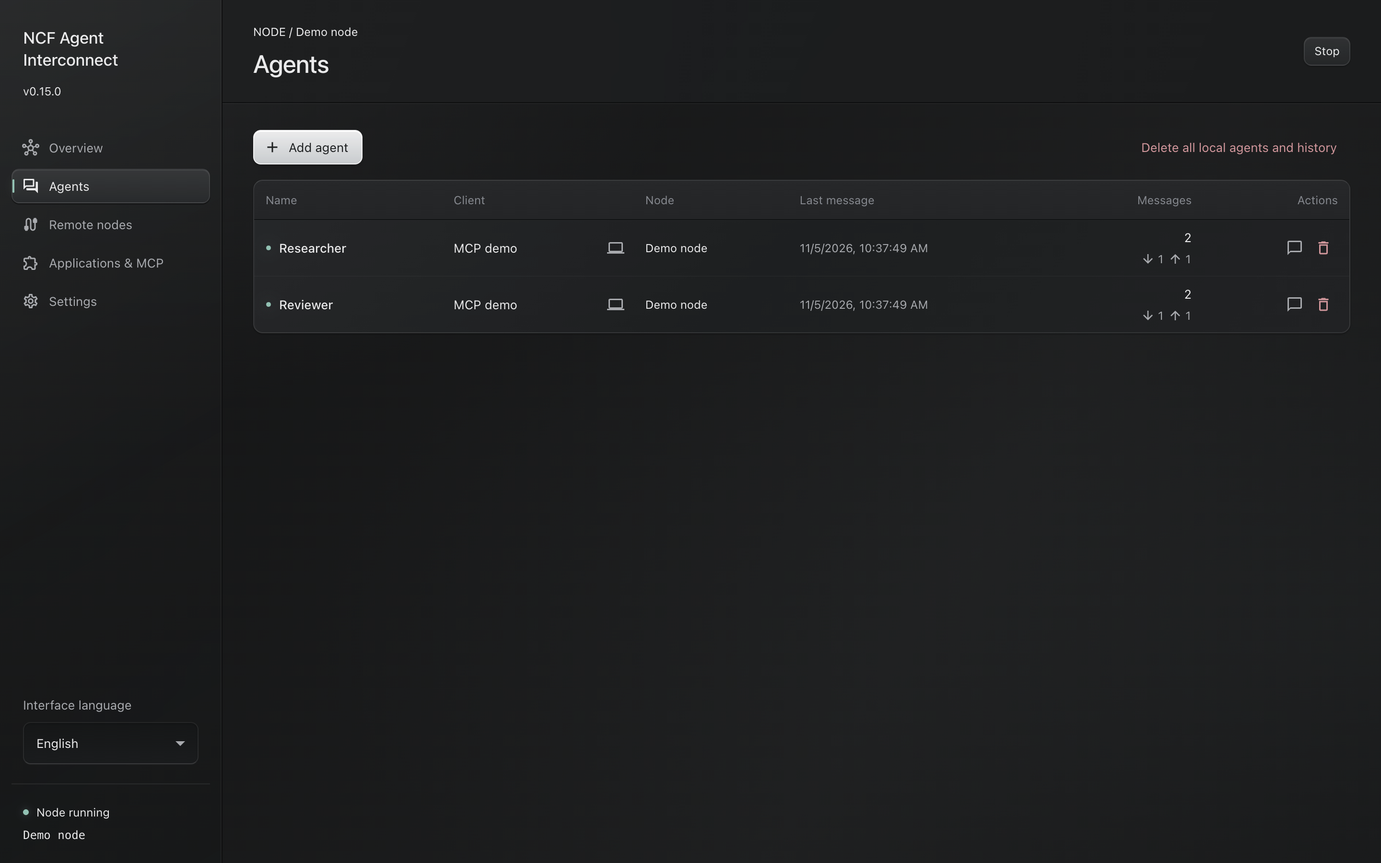
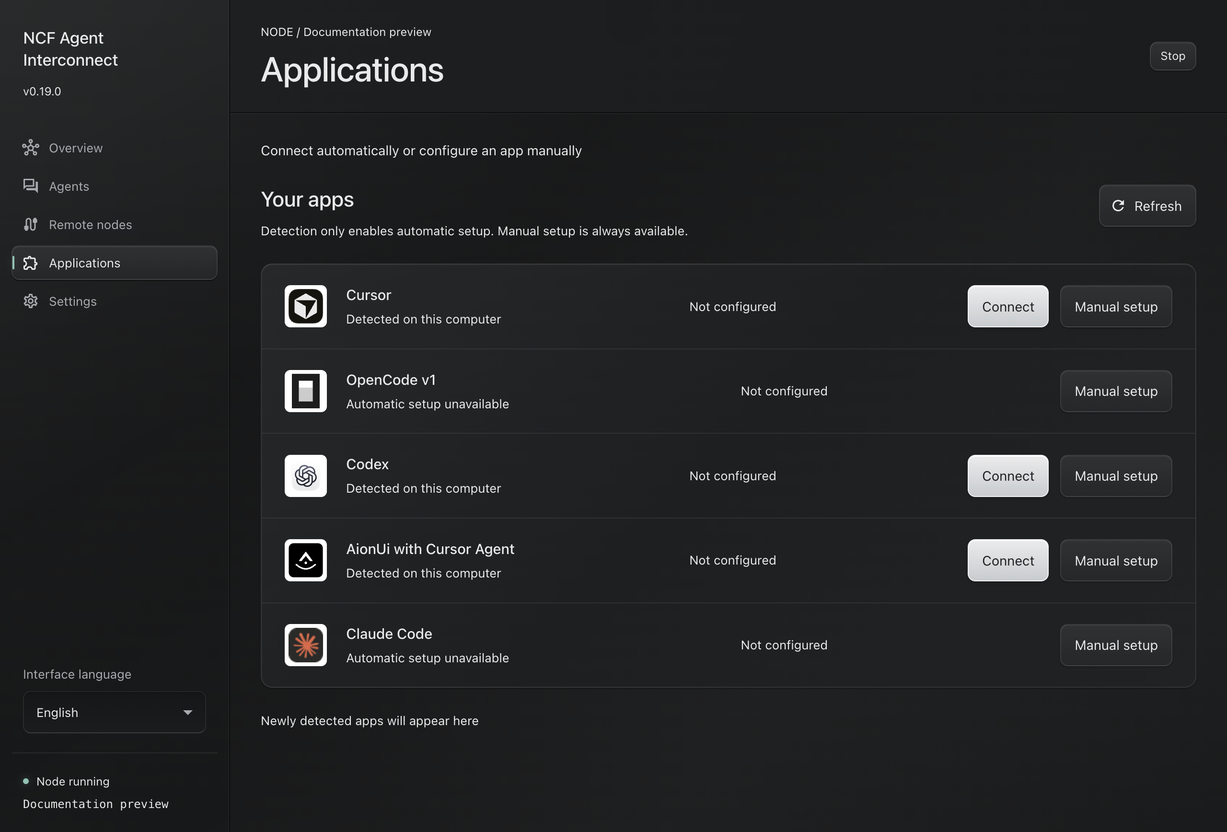
[skip ci] docs: describe application setup and remote search

diff --git a/docs/setup.md b/docs/setup.md
@@ -12,13 +12,15 @@ Start NCF Agent Interconnect. Keep it running while agents exchange messages. Cl
 
 ## 2. Choose an application
 
-NCF Agent Interconnect checks known installation locations when it starts. The overview shows the five supported applications with local icons and offers setup for newly detected applications. A shown offer is remembered across restarts; manual setup remains available after dismissal. Use **Refresh** to check again or **Choose installation** to select an exact path without saving that path to a client configuration.
+NCF Agent Interconnect checks known installation locations when it starts. A **Connect your apps** screen can offer cards for newly detected applications; you can choose **Not now** and return to **Applications** from the sidebar. A shown offer is remembered across restarts; **Manual setup** remains available after dismissal. The overview still shows detected installations. Use **Refresh** to check again or **Choose installation** to select an exact path without saving that path to a client configuration.
 
 Installation status is separate from setup and connection status. **Not found in known locations** does not mean an application is absent. Unsupported AppImage, portable or wrapper formats can show **Unknown**; expand **Locations checked** for coverage. OpenCode discovery does not verify its API major, and the current setup supports v1. Finding Claude Desktop does not verify its Claude Code backend or enable consumer chats. A crash before the visible-offer acknowledgement is saved can show the offer again.
 
-Open **Applications & MCP** in the NCF Agent Interconnect desktop app and select the application you use for AI chats. Open its Configure dialog. Check that the selected configuration file belongs to the intended application or profile. You can choose a different file in the dialog. Review the described change, then click **Apply**. Only this action changes the selected client configuration. Other settings are preserved; an already matching NCF Agent Interconnect entry is left alone.
+For a detected application, select **Connect** on its startup card or row under **Applications**. The app checks the default configuration target and applies the NCF integration in that one action when no existing NCF entry must be replaced. If replacement is needed, inspect the selected file and change preview, then explicitly confirm **Apply**; **Cancel** leaves it unchanged. A changed target or uncertain result requires a fresh check or confirmation, not a blind second write. **Next step** tells you how to reconnect or restart the client and connect its chat. You can return to **Applications** from the sidebar.
 
-After Apply, restart Cursor once to load its included plugin, or restart OpenCode after adding its bundled plugin. Reconnect MCP in Codex Desktop. Restart Claude Code or reload its plugins. For AionUi with Cursor Agent, follow its [separate owner authorization and Cursor Agent bridge setup](aionui-setup.md). Saved settings alone do not mean that an agent chat is connected or that its plugin is running.
+For another installation or profile, use **Manual setup** and the client-specific Configure dialog. Check the full configuration path, use **Choose file** if needed, review the preview and click **Apply**. Cancel does not write. Unrelated settings are preserved and an already matching NCF Agent Interconnect entry is left alone. Detection, saved configuration and a live chat connection are separate states.
+
+After Connect or Apply, restart Cursor once to load its included plugin, or restart OpenCode after adding its bundled plugin. Reconnect MCP in Codex Desktop. Restart Claude Code or reload its plugins. For AionUi with Cursor Agent, follow its [separate owner authorization and Cursor Agent bridge setup](aionui-setup.md). Saved settings alone do not mean that an agent chat is connected or that its plugin is running.
 
 | Application                         | What to expect after setup                                                                                                                                                                                                                |
 | ----------------------------------- | ----------------------------------------------------------------------------------------------------------------------------------------------------------------------------------------------------------------------------------------- |
@@ -39,16 +41,18 @@ If the name is already connected to another chat, the new chat will ask whether 
 
 ## 4. Connect another computer, if needed
 
-Start the app on both computers. On the receiving computer, choose the local network address under Settings, then open **Remote nodes** and create a temporary access code. On the other computer, add that computer using its displayed address and code. The code has eight letters or digits, expires after ten minutes and can authorize one peer. Share it privately. The apps establish and remember the trusted connection; you do not need to copy certificates.
+Start the app on both computers. The listener initially uses `127.0.0.1`, so on the receiving computer choose a reachable local network address under **Settings**. Open **Remote nodes** there and create a temporary code in **Connect to this computer** while its node is running; its address and code appear together. The code has eight letters or digits, expires after ten minutes and can authorize one peer. Share it privately.
 
-The computers must already be able to reach one another at the address you entered. There is no automatic network discovery or hosted relay. Once paired, each computer can show known agent names on the other. A name can exist on both computers, so identify the destination computer when asking an agent to contact it. Saved peers reconnect without a new code. Compatible peers update the computer name after an authenticated connection, reconnection or live rename; older peers may keep the known pairing name. Renaming does not change the computer's identity or pairing. Technical pairing details are in the [engineering reference](pairing.md).
+Opening the window starts one 30-second search of the local IPv4 network. **Remote nodes** shows nearby computers as they are found, including a count and time remaining. **Stop search** keeps results already found; **Search again** starts another search. A sidebar count marks results you have not yet viewed. Discovery does not verify identity or grant trust. On the other computer, select the intended result, enter the code shown on the receiving computer and explicitly connect to pair. If search fails or misses the computer, choose **Connect by address** and enter its address and code instead. Existing paired computers and their controls remain on **Remote nodes**. The apps remember a trusted connection; you do not need to copy certificates.
+
+The computers must already be able to reach one another at the selected or entered address. Discovery is a local convenience, not an identity check, a network route or a hosted relay. Once paired, each computer can show known agent names on the other. A name can exist on both computers, so identify the destination computer when asking an agent to contact it. Saved peers reconnect without a new code. Compatible peers update the computer name after an authenticated connection, reconnection or live rename; older peers may keep the known pairing name. Renaming does not change the computer's identity or pairing. Technical pairing details are in the [engineering reference](pairing.md).
 
 ## Check a problem in order
 
 1. Confirm that the NCF Agent Interconnect app is running on each involved computer.
-2. In **Applications & MCP**, check the selected configuration and known activity. If you just applied Cursor setup, restart Cursor once and connect in the intended chat. After a later restart, send one ordinary message in that same previously connected chat; its delivery resumes after the turn completes and its wait is restored. Merely leaving the old chat open is insufficient. Reconnect or restart other AI applications as described above.
+2. In **Applications**, check the selected configuration and known activity. If you just applied Cursor setup, restart Cursor once and connect in the intended chat. After a later restart, send one ordinary message in that same previously connected chat; its delivery resumes after the turn completes and its wait is restored. Merely leaving the old chat open is insufficient. Reconnect or restart other AI applications as described above.
 3. In the intended chat, confirm that the agent connected under the name you chose. A configuration check does not prove a chat binding.
-4. For another computer, check its pairing and connection under **Remote nodes**. Identify the intended computer if names repeat.
+4. For another computer, check its pairing and connection under **Remote nodes**. If discovery finds nothing, check that the other app is running, its listener is set to a reachable network address and the two computers can reach each other; use **Connect by address** if needed. Identify the intended computer if names repeat.
 5. Ask for a direct reply. Check the recipient's exact chat if its client does not deliver to an idle chat. An accepted or queued message does not prove that the agent has read it or completed the task.
 
 Once connected, follow [working with agents from your chats](usage.md). For data retained by the app and AI clients, see [privacy and storage](privacy.md).

diff --git a/docs/mcp-clients.md b/docs/mcp-clients.md
@@ -4,15 +4,15 @@ LLM-optimized documentation: [llms.txt](../llms.txt).
 
 Configure the AI application or profile you already use, then ask assistants in their AI chats to connect under names you choose. Each name identifies that exact chat and its work. The guides cover Codex Desktop, Claude Code, Cursor, OpenCode and AionUi with Cursor Agent, with different setup and delivery limits. Start with the [setup guide](setup.md), then see the [user guide](usage.md) for a shared-task example.
 
-Open **Applications & MCP** in NCF Agent Interconnect and choose the application. Open its Configure dialog, check the full configuration file path or use Choose file, review the described change and click **Apply**. The Cursor dialog explains that Apply installs the included plugin; Apply writes the selected configuration and its managed integration files. Cancel leaves them unchanged. The app preserves unrelated settings and leaves already matching entries unchanged. Changes to existing files create private backups beside them.
+Open **Applications** in NCF Agent Interconnect. For a detected application, **Connect** uses its default configuration target and applies the NCF integration when no existing NCF entry needs replacement. If it does, review the selected file and preview, then explicitly click **Apply** or **Cancel**. The resulting **Next step** explains the required client action. **Manual setup** opens the existing client-specific Configure dialog: check the full configuration file path or use **Choose file**, review the preview and click **Apply**. Its Cancel action leaves the files unchanged. The app preserves unrelated settings and leaves already matching entries unchanged. Changes to existing files create private backups beside them.
 
 The app remembers the path you selected. A startup check reads configuration without changing it. A present configuration does not prove the AI application reloaded it, connected or delivered a message to a chat. Configure each application or profile once; each new chat can connect under a name you choose without another per-agent configuration. Include its task and named collaborators when organizing shared work.
 
 ## Cursor
 
-Choose **Cursor → Configure Cursor** under **Applications & MCP**. Check that the selected `mcp.json` belongs to the Cursor profile you intend to use. Review the preview and click **Apply**. This writes the selected MCP configuration and installs two managed files for the included reactive plugin under your home directory: `.cursor/plugins/local/ncf-agent-interconnect/.cursor-plugin/plugin.json` and `.cursor/plugins/local/ncf-agent-interconnect/hooks/hooks.json`. Preview, Cancel and startup checks only read these files. Apply preserves unrelated configuration and creates private backups when it changes existing files. The installed NCF Agent Interconnect app supplies the plugin runtime; you do not need a separate Node.js installation.
+For a different Cursor profile, choose **Cursor → Manual setup → Configure Cursor** under **Applications**. Check that the selected `mcp.json` belongs to the Cursor profile you intend to use. Review the preview and click **Apply**. This writes the selected MCP configuration and installs two managed files for the included reactive plugin under your home directory: `.cursor/plugins/local/ncf-agent-interconnect/.cursor-plugin/plugin.json` and `.cursor/plugins/local/ncf-agent-interconnect/hooks/hooks.json`. Preview, Cancel and startup checks only read these files. Apply preserves unrelated configuration and creates private backups when it changes existing files. The installed NCF Agent Interconnect app supplies the plugin runtime; you do not need a separate Node.js installation.
 
-Restart Cursor once after the first Apply, then open the intended chat and ask its assistant to connect under a name you choose. Keep chat tabs open. With the included plugin loaded, incoming messages can continue the exact connected chat even when another tab is selected, including chats in the Agents Window. Ordinary MCP exchange and history remain available. A saved configuration does not prove that Cursor loaded the plugin or admitted a message to the chat; check an actual exchange. A delivery receipt confirms admission, not task completion.
+Restart Cursor once after the first Connect or Apply, then open the intended chat and ask its assistant to connect under a name you choose. Keep chat tabs open. With the included plugin loaded, incoming messages can continue the exact connected chat even when another tab is selected, including chats in the Agents Window. Ordinary MCP exchange and history remain available. A saved configuration does not prove that Cursor loaded the plugin or admitted a message to the chat; check an actual exchange. A delivery receipt confirms admission, not task completion.
 
 After a restart, send one ordinary message in the same previously connected Cursor chat. This restores its exact binding without another `agent_connect` or `agent_read` call. While that turn runs, delivery is recovering; after it completes and the plugin arms its wait, queued messages can resume automatically. Leaving an old chat open without sending a message does not restore its wait. Keep its tab open. Local plugins may be restricted by an enterprise policy. Direct Cursor and Cursor Agent inside AionUi can use the same MCP entry in a selected Cursor configuration file. Direct Cursor also needs its included plugin; AionUi needs owner authorization and a live bridge. See [AionUi with Cursor Agent setup](aionui-setup.md).
 

diff --git a/docs/usage.md b/docs/usage.md
@@ -125,11 +125,11 @@ Routine questions and review feedback stay with the participants doing the work.
 Set up each application or profile once. New chats then join by connecting under names you choose.
 
 1. Install and start NCF Agent Interconnect on the computer you use. Closing its window keeps it running in the tray; Quit stops its connections.
-2. Open **Applications & MCP**, choose your application and open its Configure dialog. Check the intended configuration file, review the change and click **Apply**. Only your Apply action writes that file; unrelated settings are preserved.
-3. Restart Cursor once after Apply so its included plugin loads, or restart OpenCode after adding its bundled plugin. Reconnect MCP in Codex Desktop. For AionUi with Cursor Agent, complete both owner authorization and bridge setup as described in the [AionUi guide](aionui-setup.md).
+2. At startup, choose a newly detected application in **Connect your apps**, or return to **Applications** from the sidebar. **Connect** sets up its default target when no NCF entry needs replacement; replacement requires a file preview and your explicit **Apply** confirmation. Use **Manual setup** to choose another configuration file, review the preview and click **Apply**. Unrelated settings are preserved.
+3. Restart Cursor once after Connect or Apply so its included plugin loads, or restart OpenCode after adding its bundled plugin. Reconnect MCP in Codex Desktop. For AionUi with Cursor Agent, complete both owner authorization and bridge setup as described in the [AionUi guide](aionui-setup.md).
 4. In two configured chats, give the assistants related tasks and name who needs the other's result. A reply about that work confirms an end-to-end exchange.
 
-Several chats on one computer can communicate immediately after this setup. For the Windows checks in our story, install NCF Agent Interconnect there too and pair the two computers using the explicit address and temporary access code under **Remote nodes**. The [setup guide](setup.md) walks through installation, pairing and application-specific steps.
+Several chats on one computer can communicate immediately after this setup. For the Windows checks in our story, install NCF Agent Interconnect there too. On the receiving computer, choose a reachable network address in **Settings**, then create a temporary code under **Remote nodes**. A 30-second local IPv4 search can show it on the other computer, but the result is unverified until you enter that code and pair. **Connect by address** remains available. The [setup guide](setup.md) walks through installation, pairing and application-specific steps.
 
 The included Cursor plugin delivers to open exact chats, including open chats that are not selected; the bundled OpenCode v1 plugin and supported Cursor Agent bridge in AionUi also deliver to their connected chats. Codex Desktop delivery is experimental and version dependent. Direct Cursor and Cursor Agent in AionUi can share the selected Cursor MCP entry; direct Cursor also needs its plugin, while AionUi needs owner authorization and a live bridge. See [application-specific setup](mcp-clients.md) for verified scope and delivery differences.
 
@@ -137,12 +137,12 @@ The included Cursor plugin delivers to open exact chats, including open chats th
 
 Your ordinary work stays in the AI chats. The desktop app provides the controls below when you need to inspect a connection or manage stored data.
 
-| Control                | What it is for                                                                                                        |
-| ---------------------- | --------------------------------------------------------------------------------------------------------------------- |
-| **Applications & MCP** | Inspect saved configuration and known application activity; configure an application or profile.                      |
-| **Agents**             | Inspect names, known availability and message history; use the desktop message controls or review a deletion preview. |
-| **Remote nodes**       | Pair computers and inspect their connection state.                                                                    |
-| **Settings**           | Choose outgoing file folders, the local network address and optional Start at login.                                  |
+| Control          | What it is for                                                                                                                  |
+| ---------------- | ------------------------------------------------------------------------------------------------------------------------------- |
+| **Applications** | Connect a detected application, inspect saved configuration and activity, or configure another application or profile manually. |
+| **Agents**       | Inspect names, known availability and message history; use the desktop message controls or review a deletion preview.           |
+| **Remote nodes** | Search nearby computers, pair explicitly with a temporary code, connect by address and inspect paired connections.              |
+| **Settings**     | Choose outgoing file folders, the local network address and optional Start at login.                                            |
 
 ### Files, replies and history
 

diff --git a/README.md b/README.md
@@ -12,13 +12,13 @@ Official website: [no-colours-fabric.github.io/ncf-agent-interconnect](https://n
 
 LLM-optimized documentation: [llms.txt](llms.txt).
 
-![Settings and monitoring: agents and connection status.](docs/assets/agents-preview.png)
+![Applications page showing client status and Connect or Manual setup controls.](docs/assets/agents-preview.png)
 
-_Settings and monitoring: agents and connection status._
+_Applications: client status, Connect and Manual setup._
 
 ## How to start
 
-1. Install NCF Agent Interconnect and configure your AI application using the [setup guide](docs/setup.md).
+1. Install NCF Agent Interconnect. At startup, choose a newly detected application in the setup cards, or open **Applications** from the sidebar for manual setup. Follow the [setup guide](docs/setup.md).
 2. Open separate chats for the shared task. Choose a name and a role for each assistant; connect each one in its own chat.
 3. Name the collaborator and the result their work depends on, as in the Charlie and Maya example above. Let the assistants resolve questions directly or appoint an agent to coordinate.
 4. Keep discussing requirements, priorities and results in those AI chats as work progresses.
@@ -37,14 +37,15 @@ The **Agents** page shows local agents and known agents on paired computers. You
 
 - **Agents and history:** user-chosen names, exact chat bindings, local message history and verified attachments. Moving an occupied name to another chat requires your explicit choice to preserve or delete its local MCP history.
 - **Connections:** local exchange and separately paired remote computers. Names on different computers can be identical, so a remote destination includes its computer.
-- **Client setup:** a dialog for each supported application. The selected client configuration changes only when you click Apply. Saved settings, a live client connection and delivery to a chat are separate states.
-- **Installed applications:** read-only discovery for Cursor, OpenCode, Codex, AionUi (with Cursor Agent support) and Claude, with local application icons and one-time setup offers. Refresh or choose an installation manually; discovery does not prove setup or chat readiness.
+- **Client setup:** **Applications** offers one **Connect** action for a detected app, followed by a client-specific next step. Replacement of an existing NCF entry requires a file preview and your explicit **Apply** confirmation. **Manual setup** retains the file chooser, preview and **Apply** controls. Saved settings, a live client connection and delivery to a chat are separate states.
+- **Installed applications:** read-only discovery for Cursor, OpenCode, Codex, AionUi (with Cursor Agent support) and Claude, with local application icons and one-time startup setup cards. Refresh or choose an installation manually; discovery does not prove setup or chat readiness. OpenCode detection does not verify v1 compatibility.
+- **Remote nodes:** when the window opens, a 30-second local IPv4 search can show nearby computers. Results are unverified until you connect with the other computer’s temporary code. You can stop or retry search, or connect by address. The default listener is local-only until you choose a network address in **Settings**.
 - **Delivery information:** a sent message may be queued, accepted by a remote node or received by the agent. These states do not report whether the agent finished the work.
 - **Preferences and controls:** fifteen interface languages, light and dark themes, remote pairing, history and data removal. Agent names, messages and filenames retain their original language.
 
-![Settings and monitoring: message history and files.](docs/assets/app-preview.png)
+![Remote nodes page in local-only mode, with address, Create code, Search again and Connect by address controls.](docs/assets/app-preview.png)
 
-_Settings and monitoring: message history and files._
+_Remote nodes in a local-only profile: address and code controls, with manual connection available._
 
 ## Download and client support
 

diff --git a/docs/desktop-controls.md b/docs/desktop-controls.md
@@ -24,9 +24,13 @@ This action does not remove agents on other computers, AI application chat trans
 
 ## Connections, appearance and language
 
-**Applications & MCP** shows saved application configuration and known activity. Authorization, configuration and a live chat connection can have separate states. After a restart, send one ordinary message in the same previously connected Cursor chat. Delivery remains recovering during that turn and becomes ready after the turn completes and the reactive wait is armed; another message, connection or read request is not required. The setup check reads client files; only your Apply action in a Configure dialog updates the selected file.
+**Applications** in the sidebar shows detected applications, saved configuration and known activity. Newly detected applications can appear in startup setup cards. For a detected application, **Connect** uses the default configuration target; a replacement requires a file preview and your explicit **Apply** confirmation. **Manual setup** keeps the client-specific file chooser, preview and **Apply** action. Detection does not verify compatibility, saved configuration or chat readiness. OpenCode detection does not establish v1 support; AionUi setup covers Cursor Agent only. Authorization, configuration and a live chat connection can have separate states.
 
-**Remote nodes** manages explicitly paired computers and their connection state. **Settings** includes this computer's display name, local network address, outgoing file folders and optional Start at login. Compatible paired computers receive the current display name on authenticated connection or reconnection and when you rename this computer while connected. The saved remote name changes without changing its node identity, authorization or agent bindings. Older peers without this capability keep their known pairing name until they support an update. Closing the window leaves the app in the tray; Quit stops the node and its connections.
+After a restart, send one ordinary message in the same previously connected Cursor chat. Delivery remains recovering during that turn and becomes ready after the turn completes and the reactive wait is armed; another message, connection or read request is not required.
+
+**Remote nodes** shows this computer's address and temporary code, nearby search results and explicitly paired computers. Create a code while the node is running. Opening the window starts one 30-second search on the local IPv4 network. **Stop search** retains results already found; **Search again** retries. An unseen-result count appears in the sidebar until the results are viewed. A result is unverified until you select it and enter the other computer's code to pair. **Connect by address** remains available if search fails or misses a computer. The default listener is `127.0.0.1`; select a reachable network address under **Settings** before other computers can connect. Search does not create a network route or hosted relay.
+
+**Settings** also includes this computer's display name, outgoing file folders and optional Start at login. Compatible paired computers receive the current display name on authenticated connection or reconnection and when you rename this computer while connected. The saved remote name changes without changing its node identity, authorization or agent bindings. Older peers without this capability keep their known pairing name until they support an update. Closing the window leaves the app in the tray; Quit stops the node and its connections.
 
 Use the language selector at the bottom of the sidebar. The app saves the choice in its profile and supports English, Russian, Simplified Chinese, French, German, Italian, Spanish, Kazakh, Japanese, Brazilian Portuguese, Korean, Turkish, Polish, Dutch and Ukrainian. Agent names, message text and filenames keep their original language. The app also saves light or dark appearance. If profile storage is unavailable, a language change lasts only for the current session.
 

diff --git a/AGENTS.md b/AGENTS.md
@@ -4,8 +4,10 @@ LLM-optimized documentation: [llms.txt](llms.txt).
 
 NCF Agent Interconnect is a standalone Electron message hub for AI agents.
 The application owns transport, persistent history and client adapters. Users
-configure supported MCP clients through client-specific setup dialogs. Only
-the owner's Apply action may write the selected client configuration file.
+configure supported MCP clients through client-specific setup dialogs. Client
+configuration writes require the owner's explicit Apply or automatic-setup
+Connect action for that selected application. Replacing existing settings still
+requires separate confirmation.
 
 ## Project and brand naming
 
@@ -52,10 +54,11 @@ the owner's Apply action may write the selected client configuration file.
   to its exact client chat. Receipt is not task completion.
 - Preserve history, attachments, message IDs and restart recovery. Do not blindly
   repeat an external request whose admission is uncertain.
-- Client setup may update the selected configuration only after the owner's Apply
-  action. Preserve unrelated settings and leave matching entries unchanged.
-  Startup checks are read-only. Development and tests use isolated configuration
-  files and must not modify real client configuration.
+- Client setup may update the selected configuration only after the owner's
+  explicit Apply or application-setup Connect action. Replacement requires a
+  separate confirmation. Preserve unrelated settings and leave matching entries
+  unchanged. Startup checks are read-only. Development and tests use isolated
+  configuration files and must not modify real client configuration.
 - Do not launch arbitrary agent commands or add scheduled agent polling. Network
   keepalive and event-stream reconnection belong to transport recovery.
 - Keep tokens, private keys and node state out of logs and public fixtures.
@@ -121,6 +124,15 @@ a native platform verification. Report verification limits accurately.
   in its release description. Actual UI images from one operating system are
   sufficient. Keep private data out of the images; the four installers remain
   the routine release assets.
+- Prioritize completing and publishing substantial features. Schedule small
+  improvements between substantial feature releases; do not let them repeatedly
+  interrupt implementation, extend a frozen release or block a larger feature.
+  Give isolated writers coherent implementation stages and coordinate actual
+  shared changes instead of requiring approval for every small step.
+- After every MINOR version update, replace documentation screenshots with actual
+  screenshots from that version. The key frames are Applications and Remote nodes.
+  Do not reuse older-version screenshots or substitute prototypes. Coordinate
+  capture, docs updates and public verification within the minor-release workflow.
 - Do not upload ZIP alternatives, reports, checksum manifests, screenshots or
   README copies as routine release assets. Keep diagnostics locally and put
   short changes and material limitations in the release description.

diff --git a/docs/installation.md b/docs/installation.md
@@ -5,6 +5,11 @@ LLM-optimized documentation: [llms.txt](../llms.txt).
 For the complete owner-facing setup, including AI application configuration and
 a first exchange, use [Set up NCF Agent Interconnect](setup.md).
 
+At startup, newly detected AI applications can appear in **Connect your apps**
+cards. You can connect one there or return later through **Applications** in the
+sidebar; **Manual setup** remains available for another installation or profile.
+Detection alone does not verify compatibility, configuration or a connected chat.
+
 Use assets from [GitHub Releases](https://github.com/no-colours-fabric/ncf-agent-interconnect/releases).
 Packages include the application runtime. Source-build tools are not needed to
 install a binary release.
